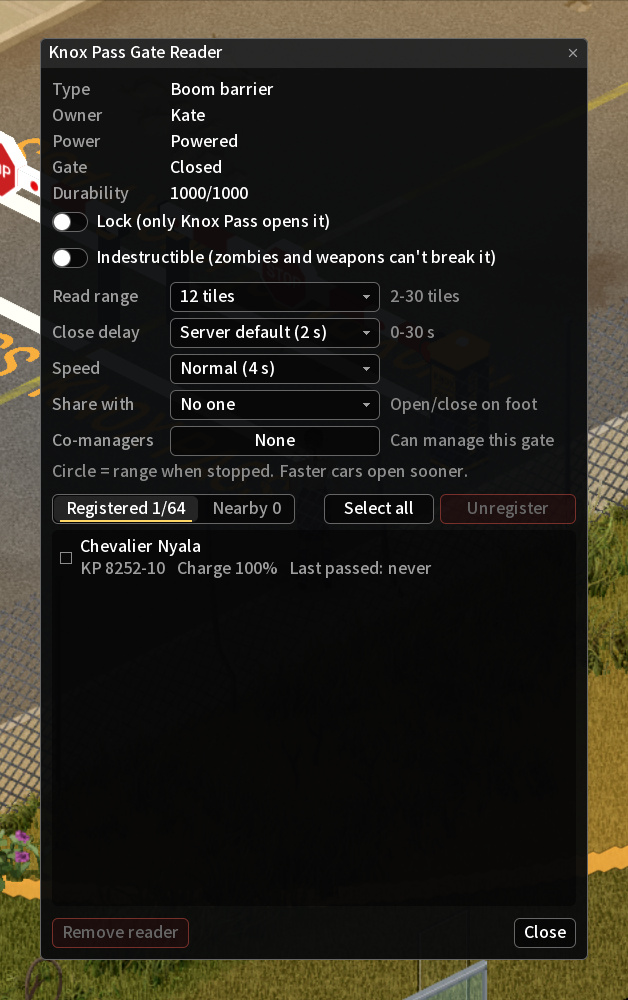
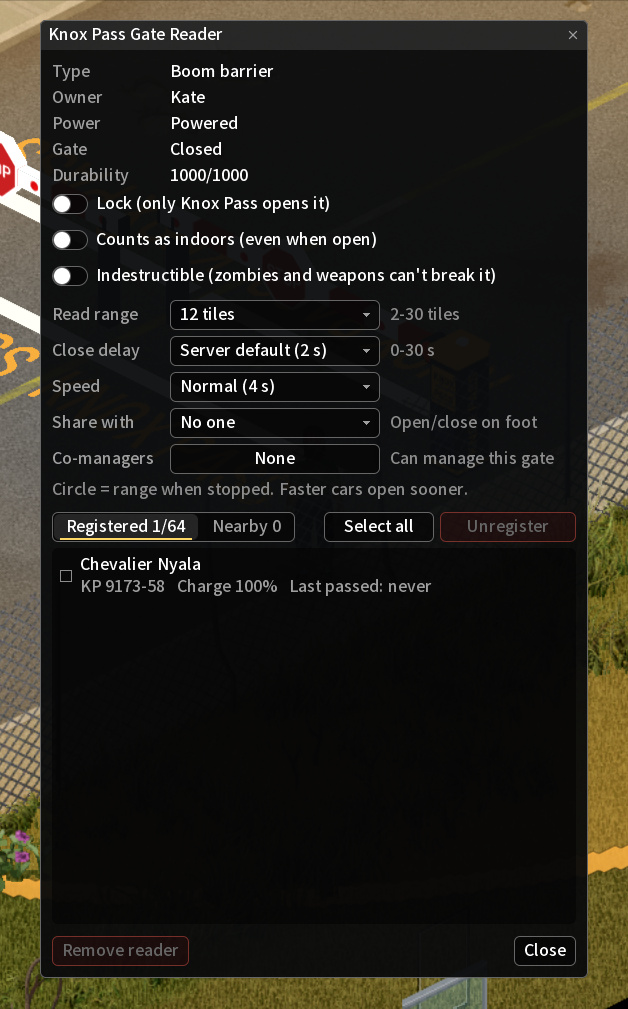
發布 42.21.0-0.8.0
讀頭的「算室內」開關。指南與作品頁的管理視窗截圖（05）重拍，多了「算室內」那一列（knoxpass-gs-CH-1022a、knoxpass-gs-EN-1022a）。

Changed region(s): [[0.0, 0.0, 0.9379, 0.589], [0.0, 0.62, 1.0, 1.0], [0.9379, 0.341, 1.0, 0.744]]

diff --git a/STEAM_CHANGELOG.md b/STEAM_CHANGELOG.md
@@ -1,7 +1,10 @@
-[h1]Minidoracat Knox Pass for B42 42.21.0-0.7.3[/h1]
+[h1]Minidoracat Knox Pass for B42 42.21.0-0.8.0[/h1]
 [i]2026-10-22[/i]
 
-[h3]🔧 修正[/h3]
+[h3]✨ 新增[/h3]
 [list]
-[*] [b]比一層樓高的卡車卡在開著的兩層樓門下[/b]：兩層樓車庫捲門與兩層樓大門開著時，車廂比一層樓高的卡車（例如 F700 廂型貨車）開到門下就停住，車頭過了門、車廂卡在門口。0.7.2 起就有：那一版在二樓門線加的看不見的牆也擋到了車頂。現在這道牆不擋車：卡車開得過開著的門，門關著照樣擋車；二樓照樣穿不過去，圍起來的二樓照樣算室內。已經蓋好的門不用重蓋，更新後就生效。二樓門線上你自己蓋的牆不在此限，會跟原版一樣擋住太高的車；拆掉後會自動換成不擋車的隱形牆。
+[*] [b]車庫門開著，屋子就算室外；閘門與兩層樓的門圍起來的一樓一直算室外[/b]：管理視窗多了「算室內（門開著也算）」。勾了以後這扇門一直算牆，門開著也算；牆和屋頂都蓋好，房子就算室內。
+[*] [b]車和人照樣過得去[/b]：勾了只改室內判定，車照樣開得過、人照樣走得過開著的門。
+[*] [b]哪些門能勾[/b]：原版車庫門，以及 Knox Pass 蓋的捲門、閘門與大門；擁有者、共同管理者或管理員能改，預設不勾。柵欄門等其他門不能勾，門框裡的門本來就算牆。
+[*] [b]門片會被切掉[/b]：抬升閘門、雙桿閘門與兩層樓的門勾了以後，門片擋住角色時會像牆一樣被切掉。
 [/list]

diff --git a/CHANGELOG.md b/CHANGELOG.md
@@ -12,7 +12,7 @@
 
 格式基於 [Keep a Changelog](https://keepachangelog.com/zh-TW/1.1.0/)，版本號遵循 `{PZ版本}-{主版本}.{次版本}.{修訂}` 格式。
 
-## [Unreleased]
+## [42.21.0-0.8.0] - 2026-10-22
 
 ### 新增
 
